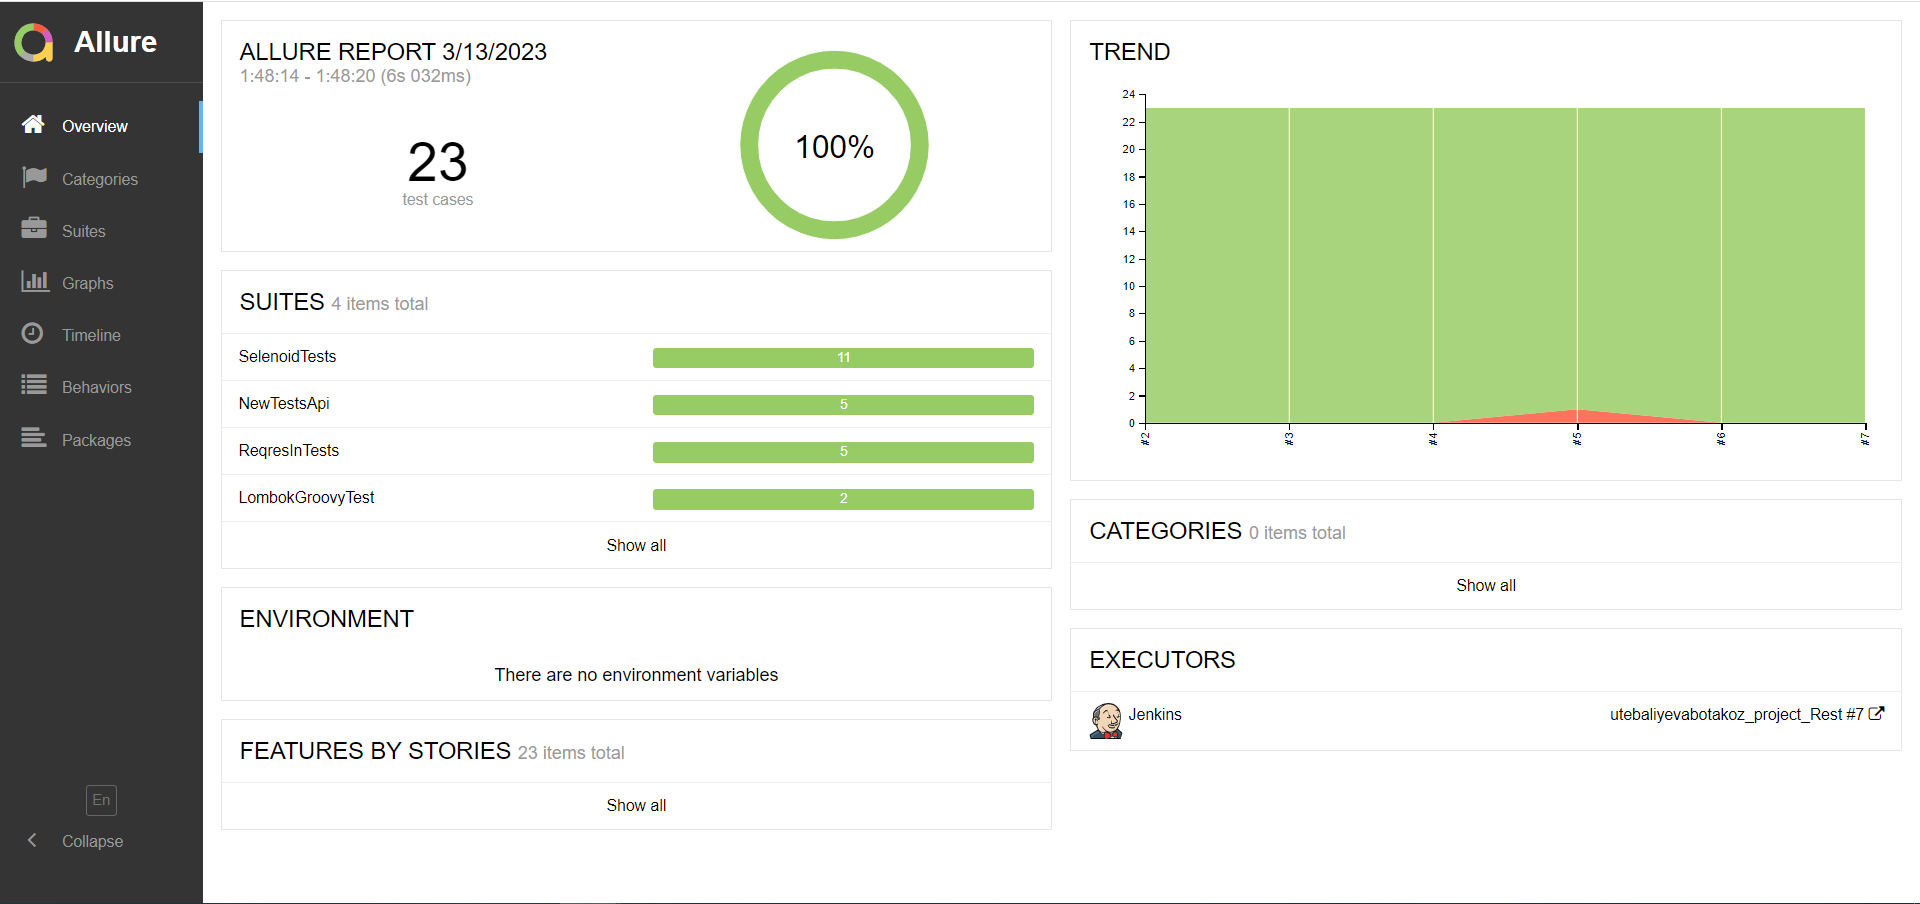
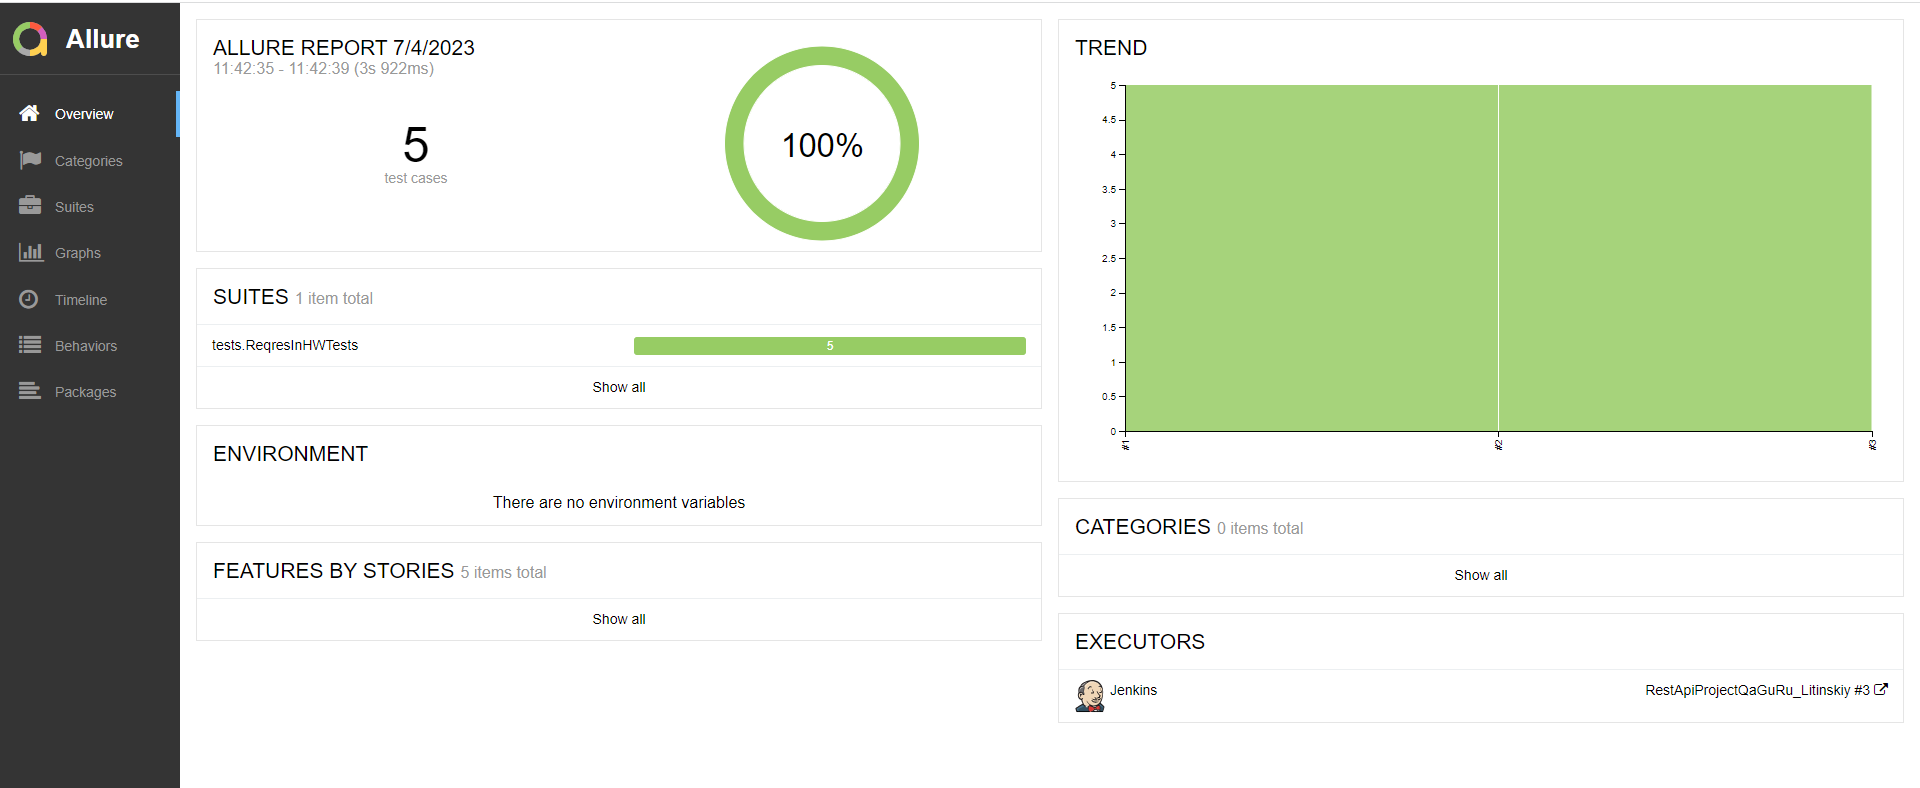
Add testopps

diff --git a/README.md b/README.md
@@ -10,7 +10,7 @@
 + [Technologies and Tools](#Technologies-and-Tools)
 + [Launch Options](#Launch-Options)
   + [Commands for gradle](#Commands-for-gradle)
-  + [Run in Jenkins](#run-in-jenkins)
+  + [Run in Jenkins](#Run-in-jenkins)
 + [Test results in Allure Report](#Test results in Allure Report)
 + [Integration with Allure TestOps](#Integration-with-Allure-TestOps)
 
@@ -63,16 +63,16 @@ gradle clean test
 ```
 
 
-## <a name="Запуск в Jenkins">Запуск в [Jenkins](https://jenkins.autotests.cloud/job/utebaliyevabotakoz_project_mobile/)</a>
+## <a name="Run in Jenkins">Run in [Jenkins](https://jenkins.autotests.cloud/job/RestApiProjectQaGuRu_Litinskiy/)</a>
 
 
-Главная страница проекта:
+Main page of the project:
 <p  align="center">
 <img src="images/screens/JenkinsHistory.PNG" width="950">
 </p>
 
 
-Результат сборки проекта доступен в:
+_The project build result is available in:_
 >- <code><strong>*Allure Report*</strong></code>
 >- <code><strong>*Allure TestOps*</strong></code>
 
@@ -80,7 +80,7 @@ gradle clean test
 [Back to Contents ⬆](#Contents)
 
 
-# <a name="AllureReport">Результаты тестов в [Allure Report](https://jenkins.autotests.cloud/job/utebaliyevabotakoz_project_mobile/allure/allure)</a>
+# <a name="AllureReport">Результаты тестов в [Allure Report](https://jenkins.autotests.cloud/job/RestApiProjectQaGuRu_Litinskiy/allure/)</a>
 
 ## Главное окно
 
@@ -89,35 +89,23 @@ gradle clean test
   <img src="images/screens/Allure1.PNG" width="950">
 </p>
 
-##  Тесты
+##  Tests
 
 <p align="center">
   <img src="images/screens/Allure2.PNG" width="950">
 </p>
+
+
+##  Graphs
 
 <p align="center">
   <img src="images/screens/Allure3.PNG" width="950">
 </p>
 
 
-##  Графики
-
-<p align="center">
-  <img src="images/screens/Allure4.PNG" width="950">
-</p>
-
-<p align="center">
-  <img src="images/screens/Allure5.PNG" width="950">
-</p>
-
-<p align="center">
-  <img src="images/screens/Allure6.PNG" width="950">
-</p>
-
-
 [Back to Contents ⬆](#Contents)
 
-# <a>Интеграция с [Allure TestOps](https://allure.autotests.cloud/launch/20439/tree?treeId=0)</a>
+# <a>Integration with [Allure TestOps](https://allure.autotests.cloud/launch/20439/tree?treeId=0)</a>
 
 
 ## Allure TestOps Dashboard
